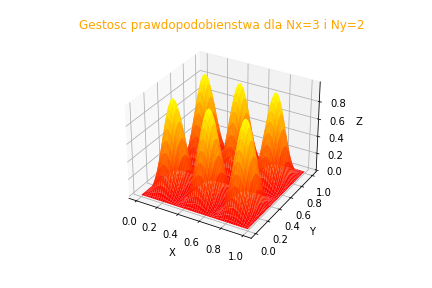
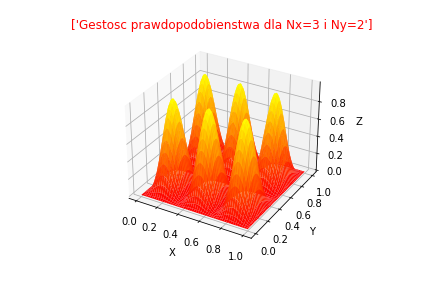
Program zapisujacy animacje do pliku gif

Changed region(s): [[0.1505, 0.0625, 0.8727, 0.125]]

diff --git a/animacja_gestosci_do_gif.py b/animacja_gestosci_do_gif.py
@@ -1,0 +1,83 @@
+
+# -*- coding: utf-8 -*-
+"""
+Created on Wed Jun 29 18:26:01 2022
+
+@author: justyna koper adam piwonski
+
+Animacja gestosci prawdopodobienstwo
+"""
+
+import sympy as sp
+from matplotlib import cm
+from sympy.utilities.lambdify import lambdify
+import numpy as np
+import matplotlib.pyplot as plt
+from matplotlib.animation import FuncAnimation
+from mpl_toolkits import mplot3d
+sp.init_printing()
+
+
+dt=0.001
+
+x = sp.Symbol('x',real=True)
+y = sp.Symbol('y', real=True)
+
+h = sp.Symbol('hbar', integer=True, positive=True)
+m = sp.Symbol('m', integer=True, positive=True)
+L = sp.Symbol('L',real=True,positive=True)
+ex = sp.Symbol('ex', real=True)
+ey = sp.Symbol('ey', real=True)
+N = sp.Symbol('N', real=True)
+nx = sp.Symbol('nx', real=True,positive=True)
+ny = sp.Symbol('ny', real=True,positive=True)
+t = sp.Symbol('t',real=True, positive=True)
+
+psi_sim = sp.Function('psi')
+psi_sim = 2/L * sp.sin(nx*sp.pi*x/L)*sp.sin(ny*sp.pi*y/L)
+E = h**2 * sp.pi**2 * (nx**2 + ny**2)/(2*m*L**2)
+PSI = psi_sim * sp.exp(-E*sp.I*t/h)
+PSIF = lambdify((x,y,nx,ny,t),PSI.subs({h: 1, m: 1, L: 1}))
+
+
+nx=2
+ny=4
+
+def update(i, z, line):
+    t = i*dt
+    z = np.abs(PSIF(xs,ys,nx,ny,t)/np.sqrt(2) + PSIF(xs,ys,nx,2*ny,t)/np.sqrt(2))**2
+    ax.clear()
+    line = ax.plot_surface(xs,ys,z,cmap=cm.autumn)
+    ax.set_zlim(0, 5)
+    return line,
+
+fig = plt.figure()
+ax = fig.add_subplot(111,projection='3d')
+
+xs = np.linspace(0, 1, 1000)
+ys = np.linspace(0, 1, 1000)
+
+xs,ys = np.meshgrid(xs,ys)
+plt.close()
+z = np.abs(PSIF(xs,ys,nx,ny,0)/np.sqrt(2) + PSIF(xs,ys,2*nx,2*ny,0)/np.sqrt(2))**2
+
+line = ax.plot_surface(xs,ys,z,cmap=cm.coolwarm)
+
+ax.set_zlim(0, 6)
+
+
+
+figtitle_gestosc1 = 'kwadrat_modulu_ff_dla_Nx=%d' % (nx) 
+figtitle_gestosc2 = '_i_Ny=%d' % (ny)
+filename=figtitle_gestosc1 + figtitle_gestosc2 + ".gif"
+print(filename)
+
+animacja_kwadratu_modulu = FuncAnimation(
+    fig, update, fargs=(z, line), interval=30, blit=False, save_count=200)
+
+
+animacja_kwadratu_modulu.save(filename)
+
+
+
+

diff --git a/animacja_funkcji_falowej_do_gif.py b/animacja_funkcji_falowej_do_gif.py
@@ -1,0 +1,77 @@
+# -*- coding: utf-8 -*-
+"""
+Created on Mon Sep 12 08:22:26 2022
+@author: justyna koper adam piwonski
+
+Animacja funkcji falowej
+"""
+
+import sympy as sp
+from matplotlib import cm
+from sympy.utilities.lambdify import lambdify
+import numpy as np
+import matplotlib.pyplot as plt
+from matplotlib.animation import FuncAnimation
+from mpl_toolkits import mplot3d
+sp.init_printing()
+
+
+x = sp.Symbol('x',real=True)
+y = sp.Symbol('y', real=True)
+
+h = sp.Symbol('hbar', integer=True, positive=True)
+m = sp.Symbol('m', integer=True, positive=True)
+L = sp.Symbol('L',real=True,positive=True)
+ex = sp.Symbol('ex', real=True)
+ey = sp.Symbol('ey', real=True)
+N = sp.Symbol('N', real=True)
+nx = sp.Symbol('nx', real=True,positive=True)
+ny = sp.Symbol('ny', real=True,positive=True)
+t = sp.Symbol('t',real=True, positive=True)
+z = sp.Symbol('z',real=True)
+
+psi_sim = sp.Function('psi')
+psi_sim = 2/L * sp.sin(nx*sp.pi*x/L)*sp.sin(ny*sp.pi*y/L)
+E = h**2 * sp.pi**2 * (nx**2 + ny**2)/(2*m*L**2)
+PSI = psi_sim * sp.exp(-E*sp.I*t/h)
+PSIF = lambdify((x,y,nx,ny,t),PSI.subs({h: 1, m: 1, L: 1})) #parametry jak na zajeciach Kwanty 2
+
+
+nx=2
+ny=4
+dt=0.01
+
+def update(i, z, line):
+    t = i*dt
+    z = PSIF(xs,ys,nx,ny,t)
+    ax.clear()
+    line = ax.plot_surface(xs,ys,z,cmap=cm.winter)
+    ax.set_zlim(-2, 2)
+    return line
+
+fig = plt.figure()
+ax = fig.add_subplot(111,projection='3d')
+
+xs = np.linspace(0, 1, 1000)
+ys = np.linspace(0, 1, 1000)
+
+xs,ys = np.meshgrid(xs,ys)
+plt.close()
+z = PSIF(xs,ys,nx,ny,0)
+
+line = ax.plot_surface(xs,ys,z,cmap=cm.winter)
+
+ax.set_zlim(-2, 2)
+
+
+
+figtitle_ff1 = 'ff_dla_Nx=%d' % (nx) 
+figtitle_ff2 = '_i_Ny=%d' % (ny)
+filename=figtitle_ff1 + figtitle_ff2 + ".gif"
+print(filename)
+
+animacja_ff = FuncAnimation(
+    fig, update, fargs=(z, line), interval=40, blit=False, save_count=150)
+
+
+animacja_ff.save(filename)

diff --git a/two_dimensional_well_JK_AP.py b/two_dimensional_well_JK_AP.py
@@ -50,8 +50,10 @@ figtitle_gestosc = 'Gestosc prawdopodobienstwa dla Nx=%d i Ny=%d' % (nx,ny)
 plt.savefig( figtitle_gestosc, transparent = True)
 
 #plt.close()
-####
 
+
+
+###funkcja falowa
 psi_0 = np.array([psi0(x,y) for x,y in zip(np.ravel(X),np.ravel(Y))])
 
 PSI_0 = psi_0.reshape(X.shape)  # wiecej wartosci!
@@ -67,3 +69,7 @@ ax2.set_zlabel('Z')
 plt.title(['Funkcja falowa dla Nx=%d i Ny=%d' % (nx,ny)], color= 'blue')
 figtitle_funkcja = 'Funkcja falowa dla Nx=%d i Ny=%d' % (nx,ny)
 plt.savefig( figtitle_funkcja, transparent = True)
+
+
+
+

diff --git a/kwadratmodulu.py b/kwadratmodulu.py
@@ -11,8 +11,8 @@ from sympy.utilities.lambdify import lambdify
 import numpy as np
 import matplotlib.pyplot as plt
 from matplotlib.animation import FuncAnimation
-from mpl_toolkits import mplot3d
-from IPython.display import HTML
+
+
 sp.init_printing()
 nx=3
 ny=2

diff --git a/funkcjafalowa.py b/funkcjafalowa.py
@@ -83,3 +83,4 @@ z = PSIF(xs,ys,n1,n2,0)
 line = ax.plot_surface(xs,ys,z,cmap="autumn")
 
 ax.set_zlim(-1.5, 1.5)
+
